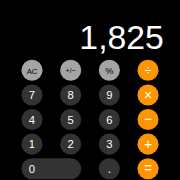
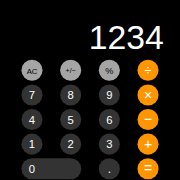
Change display number to 1234

Changed region(s): [[0.4444, 0.1389, 0.9167, 0.3056]]

diff --git a/service-worker.js b/service-worker.js
@@ -1,4 +1,4 @@
-const CACHE_NAME = 'dentaku-v28';
+const CACHE_NAME = 'dentaku-v29';
 const ASSETS = [
   './',
   './index.html',